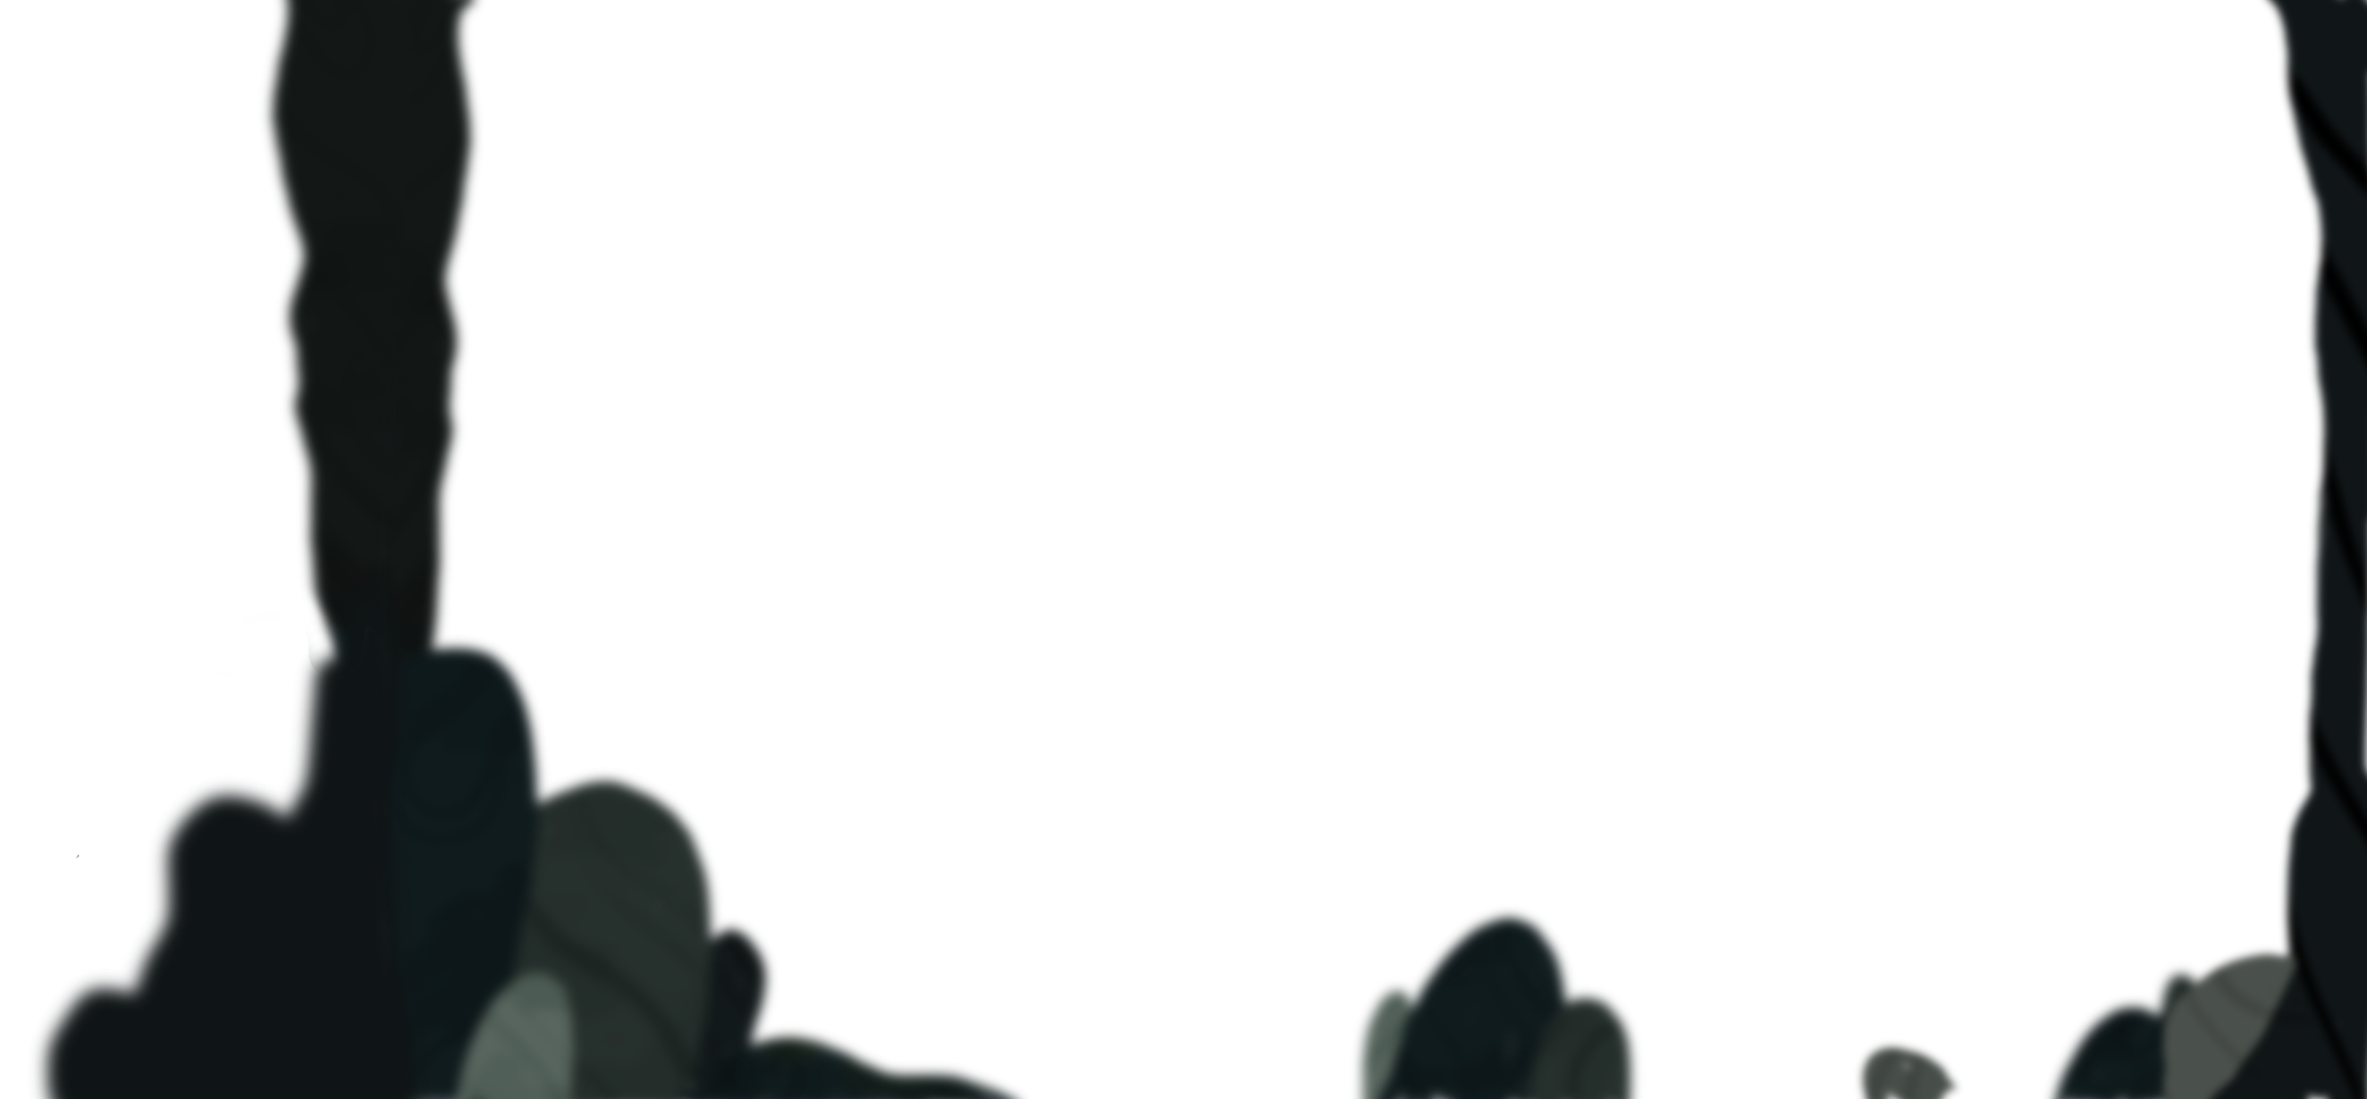
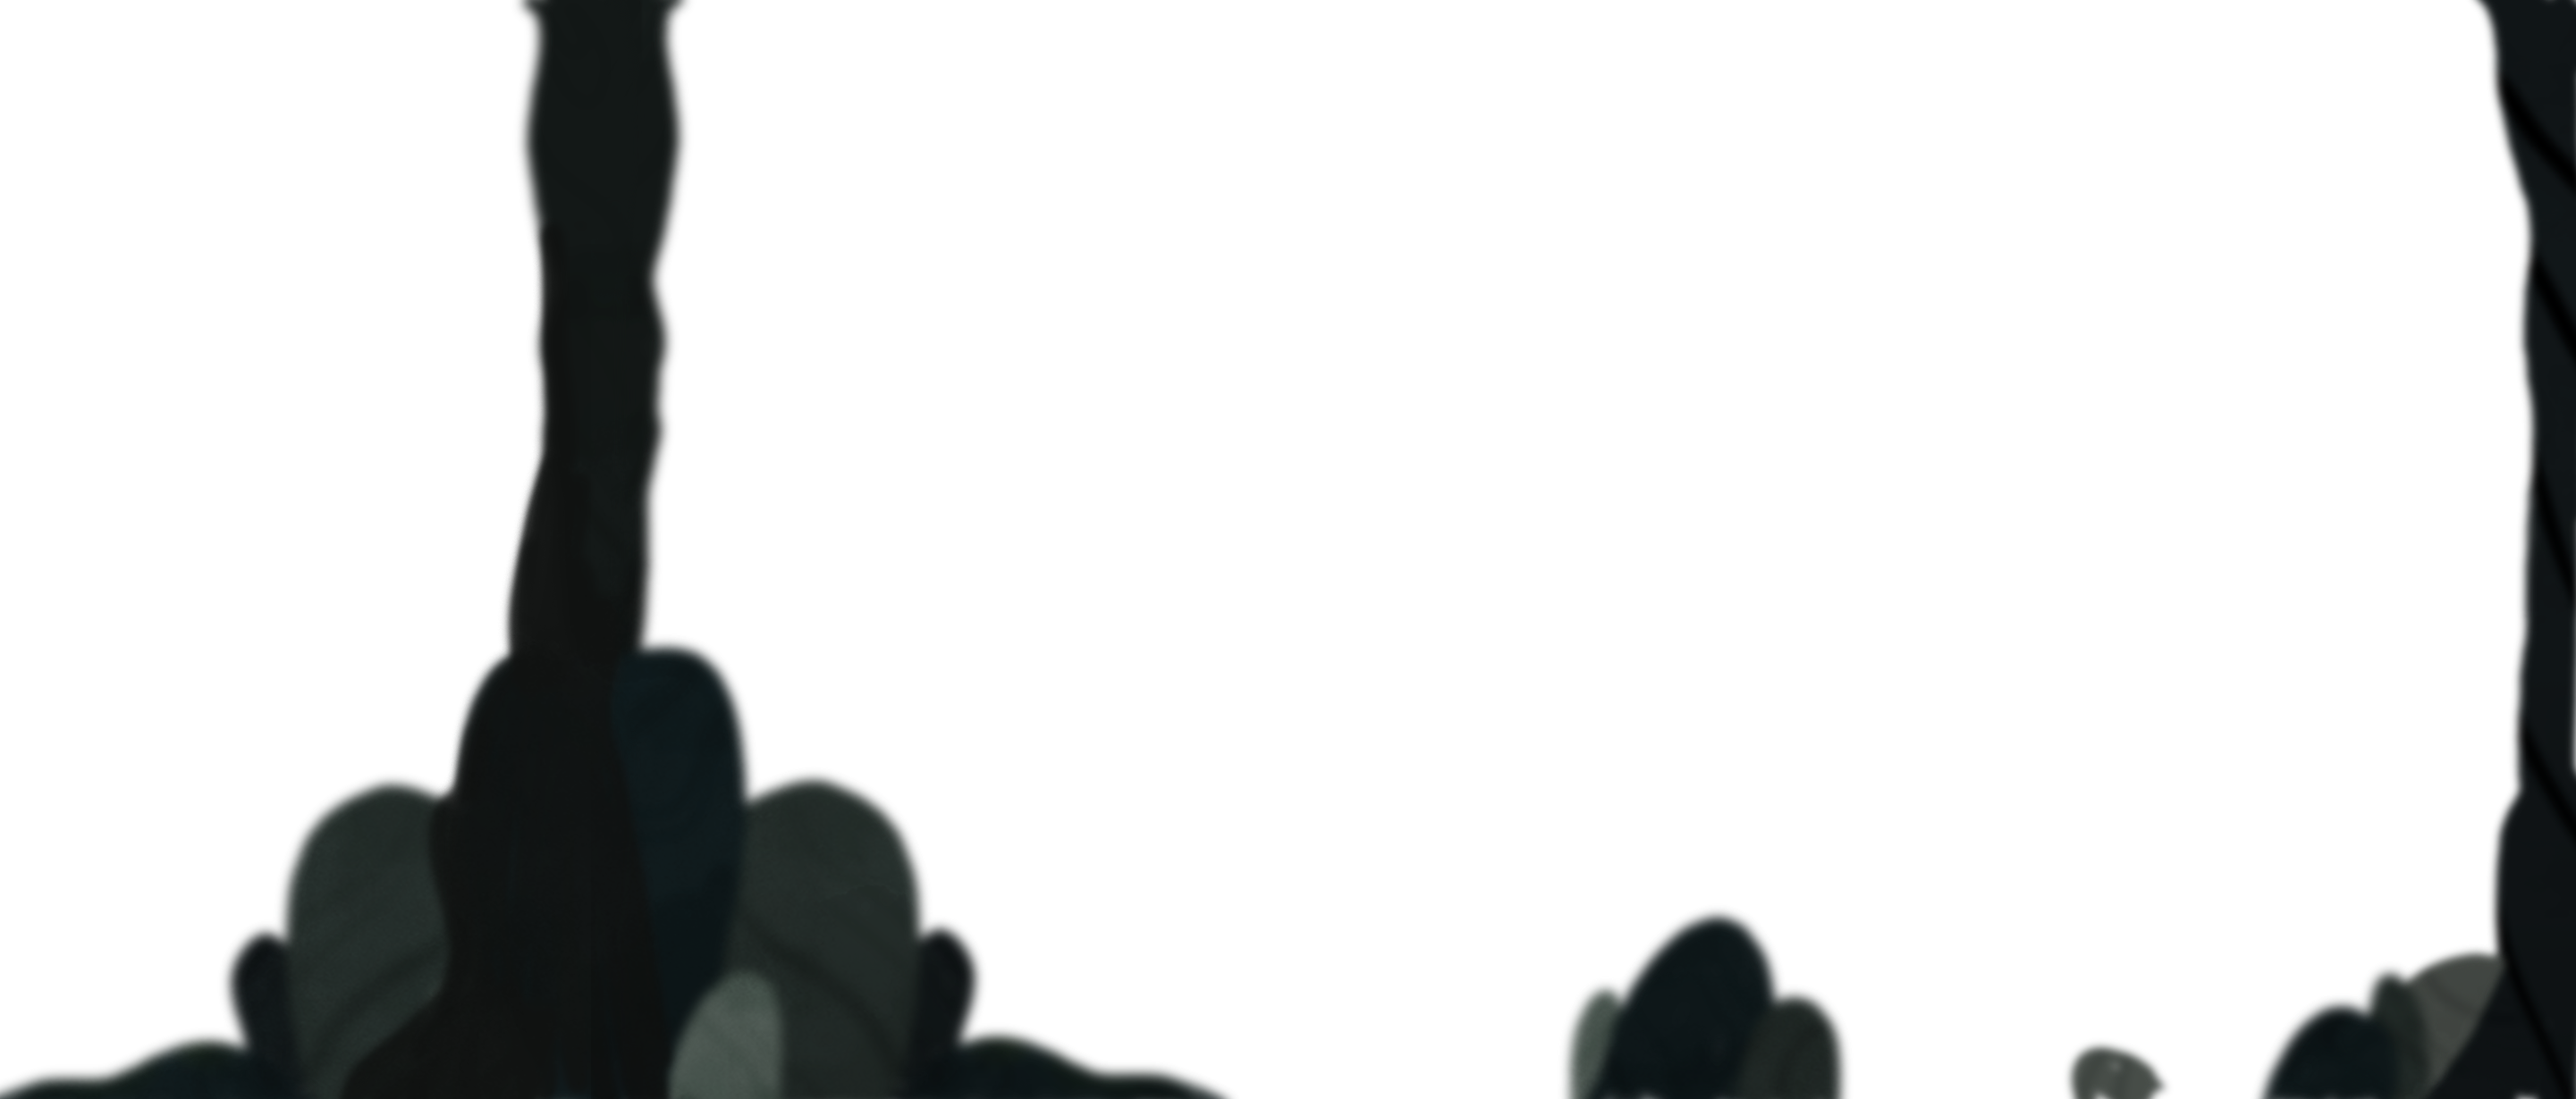
update anim perso

diff --git a/containers/introPuit/script.js b/containers/introPuit/script.js
@@ -5,9 +5,11 @@ $(document).ready(function(e) {
 	var CANVAS					= $('#canvas')[0];
 	var CTX				= CANVAS.getContext('2d');
 	var clavier = new Clavier();
-	var droite=300, haut=550, flip=true, frame=0, widthS=218, heightS=379, LineLenght=7;
+	var droite=300, haut=550, flip=true, frame=0, frame2=0, widthS=218, heightS=379, LineLenght=7, widthS2=390, heightS2=648, LineLenght2=5;
 	var scene=0, xpave=100, xpierre=1790, xpierre2=1200, xpuit=1900; 
-	var xfondpuit=0, xpierre3=250, xroche=-730, xcasque=0, xaquarelle=0, xsoleil=0;
+	var xfondpuit=-728, xpierre3=250, xroche=-730, xcasque=0, xsoleil=0;
+	var xfondtunnel=-4000, xplafond=-4000, xplafond2=-4000, xplafond3=-4000, xlumiere2=-4000, xcolonne=-4000;
+	var xfalse1=-1100, xfalse2=-100, xplan1=-2000, xplan2=1000, xplan3=-1050, xvraie=-2100;
 
 	// ************** DECOR 1 *****************
 	var pave 			= new Image();
@@ -25,26 +27,60 @@ $(document).ready(function(e) {
 	var pierre3 			= new Image();
 	var roche 			= new Image();
 	var casque 			= new Image();
-	var aquarelle 			= new Image();
 	var soleil 			= new Image();
-	fondpuit.src            = '../../assets/img/fond_puit.png';
+	fondpuit.src            = '../../assets/img/fondpuit.png';
 	pierre3.src            = '../../assets/img/pierre3.png';
 	roche.src            = '../../assets/img/roche.png';
 	casque.src            = '../../assets/img/casque.png';
-	aquarelle.src            = '../../assets/img/aquarelle.png';
 	soleil.src            = '../../assets/img/soleil.png';
+
+	// ************** DECOR 3 *****************
+	var fondtunnel 			= new Image();
+	var plafond 			= new Image();
+	var colonne 			= new Image();
+	var plafond2 			= new Image();
+	var plafond3 			= new Image();
+	var lumiere2 			= new Image();
+	
+	fondtunnel.src            = '../../assets/img/background.png';
+	plafond.src            = '../../assets/img/plafond.png';
+	plafond2.src            = '../../assets/img/plafond2.png';
+	plafond3.src            = '../../assets/img/plafond3.png';
+	lumiere2.src            = '../../assets/img/degrade.png';
+	colonne.src            = '../../assets/img/colonne.png';
+
+	// ************** DECOR 4 *****************
+		var false1 			= new Image();
+		var false2 			= new Image();
+		var plan1 			= new Image();
+		var plan2 			= new Image();
+		var plan3 			= new Image();
+		var vraie 			= new Image();
+		
+		false1.src            = '../../assets/img/false1.png';
+		false2.src            = '../../assets/img/false2.png';
+		plan1.src            = '../../assets/img/plan1.png';
+		plan2.src            = '../../assets/img/plan2.png';
+		plan3.src            = '../../assets/img/plan3.png';
+		vraie.src            = '../../assets/img/vraie.png';
 
 	// ************** PERSO *****************
 	var perso					= new Object( { 'pic':new Image(), 'x':0, 'y':0, 'angle':0 } );
 	perso.pic.src				= '../../assets/img/spritesheet2.png';
-	
-	perso.pic.onload=function(){ setInterval(boucle,25); };
+
+	var perso2					= new Object( { 'pic':new Image(), 'x':0, 'y':0, 'angle':0 } );
+	perso2.pic.src				= '../../assets/img/spritesheet.png';
+
+		perso.pic.onload=function(){ setInterval(boucle,25); };
 
 	function boucle(){
+
 
 		if (clavier.haut){
 			scene = 1;
 		}
+
+		// ************** SCENE 1 *****************
 
 		if(scene == 1){
 			CTX.save();
@@ -68,29 +104,87 @@ $(document).ready(function(e) {
 			}
 			else if(xpave < -999){
 				scene=2;
-				droite=-1000;
-				gauche=1000;
 			}
 		}
 		if (frame >= 21) frame=0;
+		if (frame2 >= 25) frame2=0;
+
+		// ************** SCENE 2 *****************
 
 		if (scene == 2){
 			CTX.save();
 			CTX.clearRect(0,0,CANVAS.width, CANVAS.height);
 			CTX.drawImage(fondpuit,xfondpuit,0,2648,1230);
-			CTX.drawImage(pierre3,xpierre3,700,1854,530);
+			CTX.drawImage(pierre3,xpierre3,650,1854,530);
 			CTX.drawImage(soleil,xsoleil,0,1385,1230);
-			CTX.drawImage(aquarelle,xaquarelle,0,2648,1224);
-			CTX.drawImage(roche,xroche,0,2648,1230);
-			CTX.drawImage(perso.pic, (frame%LineLenght)*widthS,Math.floor(frame/LineLenght)*heightS,widthS,heightS,0,0,widthS,heightS);
-			//CTX.translate(droite, haut);
+			CTX.drawImage(fondtunnel,xfondtunnel,0,3840,1200);
+			CTX.drawImage(colonne,xcolonne,0,1810,1200);
+			CTX.drawImage(plafond,xplafond,0,3840,1200);
+			CTX.drawImage(plafond2,xplafond2,0,3840,1200);
+			CTX.drawImage(perso2.pic,(frame2%LineLenght2)*widthS2,Math.floor(frame2/LineLenght2)*heightS2,widthS2,heightS2,850,500,widthS2,heightS2);
+			CTX.drawImage(plafond3,xplafond3,0,3840,1200);
+			CTX.drawImage(lumiere2,xlumiere2,0,3840,1200);
+			CTX.translate(droite,haut);
 			CTX.restore();
+			CTX.drawImage(roche,xroche,0,2648,1230);
+
 			if (clavier.gauche){
+
+				xlumiere2=xlumiere2+9;
+				xplafond3=xplafond3+9;
+				xplafond2=xplafond2+9;
+				xplafond=xplafond+9;
+				xcolonne=xcolonne+9;
+				xfondtunnel=xfondtunnel+9;
+
+				xfondpuit=xfondpuit+9;
+				xpierre3=xpierre3+9;
+				xsoleil=xsoleil+9;
+				xroche=xroche+9;
+
 				droite-=5;
 				flip=false;
 				position=2;
-				frame++;
+				frame2++;
+				if(xfondpuit > 3060){
+					CTX.save();
+					CTX.clearRect(0,0,CANVAS.width, CANVAS.height);
+					scene=3;
+				}
 			}
+
+		}
+
+		// ************** SCENE 3 *****************
+
+		if (scene == 3){
+			CTX.save();
+			CTX.clearRect(0,0,CANVAS.width, CANVAS.height);
+			CTX.drawImage(plan3,xplan3,1000,2938,123);
+			CTX.drawImage(plan2,xplan2,1040,404,82);
+			CTX.drawImage(plan1,xplan1,1000,367,76);
+			CTX.drawImage(false2,xfalse2,100,715,554);
+			CTX.drawImage(false1,xfalse1,100,715,554);
+			CTX.drawImage(vraie,xvraie,100,715,554);
+			CTX.drawImage(perso2.pic,(frame2%LineLenght2)*widthS2,Math.floor(frame2/LineLenght2)*heightS2,widthS2,heightS2,850,500,widthS2,heightS2);
+			CTX.translate(droite,haut);
+			CTX.restore();
+
+			if (clavier.gauche){
+
+				xplan3=xplan3+9;
+				xplan2=xplan2+9;
+				xplan1=xplan1+9;
+				xfalse2=xfalse2+9;
+				xfalse1=xfalse1+9;
+				xvraie=xvraie+9;
+
+				droite-=5;
+				flip=false;
+				position=2;
+				frame2++;
+			}
+
 		}
 
 
